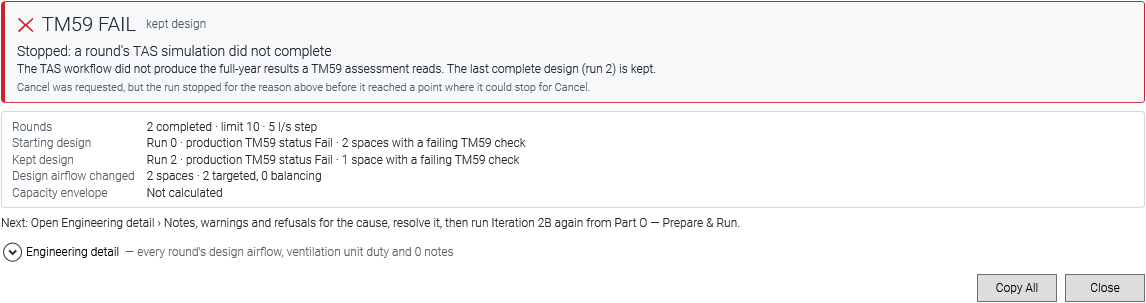
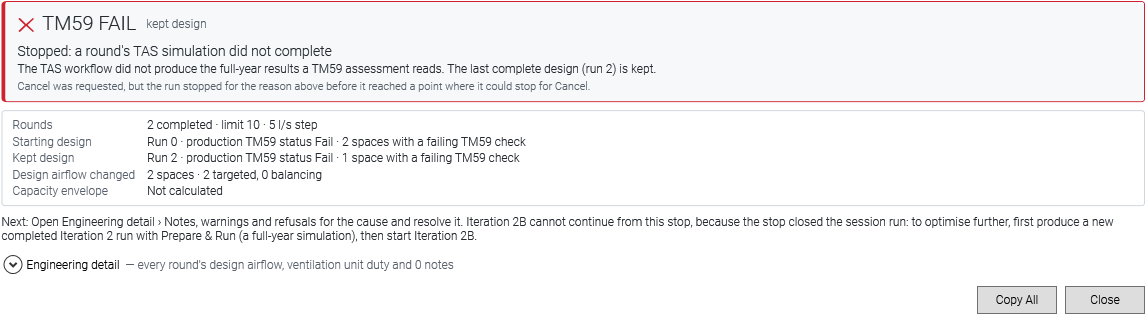
fix(parto): 2B start states what numbering continues; start window stays reachable
Codex P2 x2 on #118 (91085dc):
- Starting 2B from a design an earlier 2B left behind said "numbering
  continues from it", but only the result files continue: the new run
  shows its rounds from 1. The Start window now says the design was
  "saved as round N (-OptNN)" and its tooltip explains that this run's
  rounds count from 1 while its files continue from -Opt(N+1). The
  optimiser's numbering is unchanged.
- The Start window is capped to the work area, with its content in a
  ScrollViewer and Start / Cancel outside it, like the other Part O
  dialogs, so the actions stay on screen on short displays or with large
  text scaling.

diff --git a/WPF/SAM.Analytical.UI.WPF/Windows/PartOOptimisationStartWindow.xaml b/WPF/SAM.Analytical.UI.WPF/Windows/PartOOptimisationStartWindow.xaml
@@ -5,7 +5,7 @@
         xmlns:mc="http://schemas.openxmlformats.org/markup-compatibility/2006"
         xmlns:local="clr-namespace:SAM.Analytical.UI.WPF"
         mc:Ignorable="d"
-        Title="Part O — Start Iteration 2B" Width="640" SizeToContent="Height" ResizeMode="NoResize"
+        Title="Part O — Start Iteration 2B" Width="640" SizeToContent="Height" ResizeMode="CanResizeWithGrip" MinHeight="260"
         WindowStartupLocation="CenterOwner" FontFamily="Roboto Light">
     <Window.Resources>
         <ResourceDictionary>
@@ -37,7 +37,16 @@
     <!-- LAYOUT, in the order an engineer asks: WHY run it (purpose), WHAT it starts from (the run's own
          record), WHAT it may and may not change, and HOW (the settings, pre-filled). Nothing runs until Start.
          Every fact is PartOOptimisationStart's; eligibility was already Modify.CanOptimise's answer. -->
-    <StackPanel Margin="14,12,14,12">
+    <!-- The content scrolls and the actions sit outside it, so Start and Cancel stay on screen however small the
+         work area or large the text scaling; the height is capped to the work area in code, as the other Part O
+         dialogs are. -->
+    <Grid Margin="14,12,14,12">
+        <Grid.RowDefinitions>
+            <RowDefinition Height="*"/>
+            <RowDefinition Height="Auto"/>
+        </Grid.RowDefinitions>
+        <ScrollViewer Grid.Row="0" VerticalScrollBarVisibility="Auto" HorizontalScrollBarVisibility="Disabled">
+    <StackPanel>
         <TextBlock Text="Optimise ventilation — Iteration 2B" FontSize="17" FontWeight="SemiBold" Foreground="{StaticResource PartO.Brush.Text}"/>
         <TextBlock x:Name="textBlock_Purpose" Margin="0,4,0,0" TextWrapping="Wrap" Foreground="{StaticResource PartO.Brush.Text}"/>
 
@@ -111,10 +120,13 @@
         <TextBlock Margin="0,10,0,0" Style="{StaticResource PartO.Caption}"
                    Text="The design loaded into the model afterwards is the last one that was simulated and assessed in full. Cancel stops at the next point it can: a TAS step already running finishes first."/>
 
-        <StackPanel Orientation="Horizontal" HorizontalAlignment="Right" Margin="0,12,0,0">
+    </StackPanel>
+        </ScrollViewer>
+
+        <StackPanel Grid.Row="1" Orientation="Horizontal" HorizontalAlignment="Right" Margin="0,12,0,0">
             <Button x:Name="button_Start" MinWidth="150" Height="28" Padding="10,0" IsDefault="True" Click="button_Start_Click"
                     Style="{StaticResource PartO.PrimaryButton}" ToolTipService.ShowOnDisabled="True">Start Iteration 2B</Button>
             <Button x:Name="button_Cancel" IsCancel="True" Width="80" Height="28" Margin="8,0,0,0">Cancel</Button>
         </StackPanel>
-    </StackPanel>
+    </Grid>
 </Window>

diff --git a/WPF/SAM.Analytical.UI.WPF/Classes/PartO/PartOOptimisationStart.cs b/WPF/SAM.Analytical.UI.WPF/Classes/PartO/PartOOptimisationStart.cs
@@ -102,8 +102,10 @@ namespace SAM.Analytical.UI.WPF
                 "Starting from",
                 iteration == 0
                     ? string.Format("The completed {0} run and its TM59 results", name)
-                    : string.Format("The design kept by an earlier Iteration 2B run (round {0}); numbering continues from it", iteration),
-                "Iteration 2B does not simulate the starting design again: it assesses the results it already has, then optimises from there."));
+                    : string.Format("The design kept by an earlier Iteration 2B run, saved as round {0} (-Opt{0:00})", iteration),
+                iteration == 0
+                    ? "Iteration 2B does not simulate the starting design again: it assesses the results it already has, then optimises from there."
+                    : string.Format("Iteration 2B does not simulate the starting design again: it assesses the results it already has, then optimises from there. This optimisation numbers its own rounds from 1 (run 0 is this starting design); only the result files continue the earlier numbering, so its round 1 is saved as -Opt{0:00} and nothing earlier is overwritten.", iteration + 1)));
 
             if (!string.IsNullOrWhiteSpace(path_TSD))
             {

diff --git a/WPF/SAM.Analytical.UI.WPF.Tests/PartOIteration2BJourneyTests.cs b/WPF/SAM.Analytical.UI.WPF.Tests/PartOIteration2BJourneyTests.cs
@@ -173,7 +173,12 @@ namespace SAM.Analytical.UI.WPF.Tests
 
             PartOOptimisationStart partOOptimisationStart_Opt = PartOOptimisationStart.Create(partORun_Opt, null);
 
-            Assert.Contains("earlier Iteration 2B run (round 3)", partOOptimisationStart_Opt.Facts.Single(x => x.Label == "Starting from").Value, StringComparison.Ordinal);
+            //Codex P2 on #118: only the result files continue the numbering - this run's rounds count from 1.
+            PartOOptimisationSummary.Fact fact_Opt = partOOptimisationStart_Opt.Facts.Single(x => x.Label == "Starting from");
+            Assert.Contains("earlier Iteration 2B run, saved as round 3 (-Opt03)", fact_Opt.Value, StringComparison.Ordinal);
+            Assert.DoesNotContain("numbering continues", fact_Opt.Value, StringComparison.Ordinal);
+            Assert.Contains("numbers its own rounds from 1", fact_Opt.Detail, StringComparison.Ordinal);
+            Assert.Contains("saved as -Opt04", fact_Opt.Detail, StringComparison.Ordinal);
         }
 
         /// <summary>

diff --git a/WPF/SAM.Analytical.UI.WPF/Windows/PartOOptimisationStartWindow.xaml.cs b/WPF/SAM.Analytical.UI.WPF/Windows/PartOOptimisationStartWindow.xaml.cs
@@ -22,6 +22,10 @@ namespace SAM.Analytical.UI.WPF
         {
             InitializeComponent();
 
+            //Never taller than the screen it opens on: the content scrolls and Start / Cancel stay reachable on a
+            //short display or with large text scaling - the same cap the Hub and the Prepare Iteration window use.
+            MaxHeight = SystemParameters.WorkArea.Height * 0.92;
+
             textBlock_Purpose.Text = PartOOptimisationStart.Text_Purpose;
             itemsControl_Changes.ItemsSource = PartOOptimisationStart.Changes;
             itemsControl_Keeps.ItemsSource = PartOOptimisationStart.Keeps;

diff --git a/documentation/evidence/parto-2b-journey/JOURNEY.md b/documentation/evidence/parto-2b-journey/JOURNEY.md
@@ -83,6 +83,7 @@ Exe `build\SAM Analytical.exe`, WPF dll 08:10 (then 08:27 for the reopen re-chec
 - *Reopen caption/tooltip.* With the scenario box back on its first entry (Iteration 1a), a reopened **Iteration 2** run showed "Iteration 2 only" / "available on Iteration 2 only" (`40`). This behaviour predates Pass 5. Now, where a run with results exists, the tooltip is `CanOptimise`'s refusal ("reopened from a saved model … Run Prepare & Run again …") and the caption is "Needs a live run" (restored) or "Not available" (`41`, re-checked live 08:29).
 - *Hub vocabulary.* The Hub said "iteration limit reached" beside the result's "round limit reached". Changed to "round limit reached", the word every 2B window uses.
 - (Codex P2s on #118, fixed before this run and proven in 6: next step only offers continuing where the run survives; session pre-fill on every route.)
+- (Codex P2 x2 on 91085dc, fixed after this run: the "Starting from" line for a design an earlier 2B left behind said "numbering continues from it" (as captured in 6), but only the result files continue - the new run's rounds are shown from 1. It now reads "saved as round 10 (-Opt10)", and its tooltip says the rounds count from 1 while the files continue from -Opt11. The Start window is also capped to the work area with scrolling content, so Start and Cancel stay reachable.)
 - (Codex P2 on 5b0c039, fixed after this run: a Hub Prepare & Run reusing a Prepare Iteration preparation no longer clears its recorded 2B preset - a request stating no settings keeps it. Unit-tested; the live run did not use that route.)
 
 **Observed, not changed (outside Pass 5):**

diff --git a/PROJECT_PROGRESS.md b/PROJECT_PROGRESS.md
@@ -61,6 +61,10 @@ reporting PRs #136/#139/#140 not needed). Not merged at time of writing.
   Iteration window cleared its 2B preset (`ReuseWithCurrentOptimisation` adopted the request's null). Now a request
   stating no settings keeps the recorded preset; the reuse condition is unchanged. Test C renamed
   `AReusedPreparation_KeepsARecordedPresetWhenTheRequestStatesNone`.
+- Codex P2 x2 on 91085dc (fixed): (a) a 2B started from an earlier `-Opt10` said "numbering continues", but only the
+  result files continue - the new run's rounds show 1..N. The Start window now says "saved as round 10 (-Opt10)" and
+  explains that its rounds count from 1 while files continue from -Opt11; the optimiser's numbering is unchanged.
+  (b) the Start window is now capped to the work area with its content in a ScrollViewer and Start/Cancel outside it.
 - Communal corridor: verified, no defect. SAM `TM59AssessmentReport` classifies by the exact InternalCondition; SAM_UI
   presents `CorridorChecks` / `SupplementaryChecks` as given. New `PartOTM59CorridorReportingTests` pins it (the live
   model has no corridor IC).
